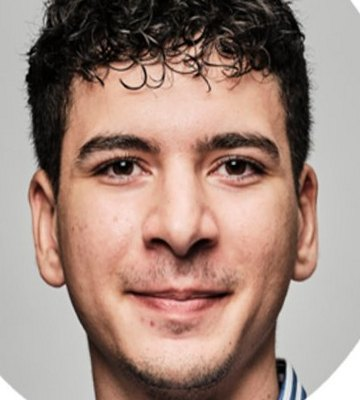
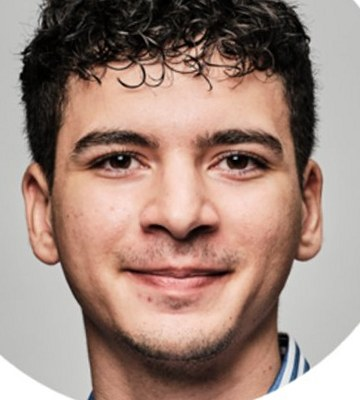
Cadavre exquis : visages réalignés sans déformation pour que les morceaux se raccordent
Claude-Session: https://claude.ai/code/session_01BayyRGBPTT2h444o73kSTA

diff --git a/cadavre-exquis/commun.js b/cadavre-exquis/commun.js
@@ -2,13 +2,13 @@
 window.CE = (function () {
   const NOMS = window.CE_NOMS || [];
   const pad = (i) => String(i + 1).padStart(2, "0");
-  // Chaque visage (visages/XX.jpg, 360 x 400 px, aligné sur les yeux) est découpé en 4 bandes de hauteur fixe.
+  // Chaque visage (visages/XX.jpg, 360 x 400 px, aligné sur un visage moyen sans déformation : même place pour les yeux, le nez et la bouche) est découpé en 4 bandes de hauteur fixe.
   // y = haut de la bande, h = sa hauteur, en pixels de l'image.
   const PARTIES = [
-    { nom: "Front", y: 0, h: 120 },
-    { nom: "Yeux", y: 120, h: 88 },
-    { nom: "Nez", y: 208, h: 68 },
-    { nom: "Bouche", y: 276, h: 124 }
+    { nom: "Front", y: 0, h: 108 },
+    { nom: "Yeux", y: 108, h: 88 },
+    { nom: "Nez", y: 196, h: 62 },
+    { nom: "Bouche", y: 258, h: 142 }
   ];
   const LARGE = 360, HAUT = 400;
   const src = (id) => `visages/${pad(id)}.jpg`;

diff --git a/README.md b/README.md
@@ -41,8 +41,8 @@ et « Voir le classement » (`classement.html`).
     À sa prochaine visite, son téléphone oublie l'ancienne partie et il peut rejouer.
 
 - `cadavre-exquis/` : un mélangeur de visages, sans score ni classement (`classement: false` dans `listes.js`).
-  - `visages/01.jpg` à `21.jpg` : les photos de `qui-se-cache/photos`, alignées sur les yeux et découpées en
-    4 bandes de hauteur fixe (front 0-120 px, yeux 120-208, nez 208-276, bouche 276-400) ; `noms.js` : les prénoms,
+  - `visages/01.jpg` à `21.jpg` : les photos de `qui-se-cache/photos`, alignées sans déformation sur un visage moyen
+    (yeux, nez et bouche à la même place) et découpées en 4 bandes (front 0-108 px, yeux 108-196, nez 196-258, bouche 258-400) ; `noms.js` : les prénoms,
     dans le même ordre ; `commun.js` : la découpe (`PARTIES`) et le nom de la créature.
   - `index.html` : on change chaque morceau avec les flèches ou en le faisant glisser du doigt, « Tout mélanger »
     tire 4 collègues au hasard, « Remettre d'aplomb » redonne tout au propriétaire du front, et
